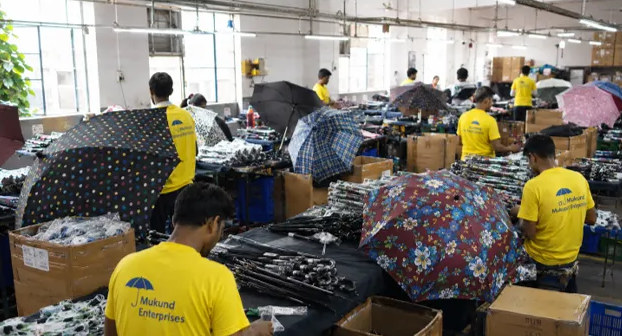
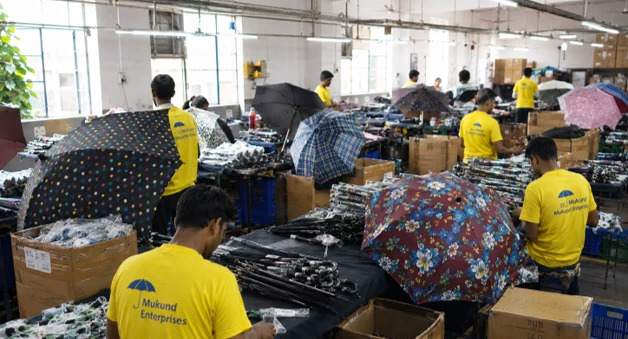
Show factory and product photos whole: no cropping, stretching or enlarging
Claude-Session: https://claude.ai/code/session_011EQ4jTa1nmGAWaByM4MBeN

diff --git a/about.html b/about.html
@@ -53,11 +53,11 @@
     <div class="section-head"><p class="eyebrow">Inside our factory</p><h2>Made by our <em>own</em> team</h2></div>
     <p class="lead">Every umbrella is cut, stitched, assembled and checked by the Mukund Enterprises team under one roof.</p>
     <div class="gallery">
-      <figure class="wide"><img src="assets/factory/production-floor-stitching.jpg" alt="Mukund Enterprises team assembling umbrellas on the production floor" loading="lazy"><figcaption>Assembly and stitching on the production floor</figcaption></figure>
-      <figure><img src="assets/factory/assembly-line-colourful-umbrellas.jpg" alt="Workers assembling and testing colourful umbrellas at long tables" loading="lazy"><figcaption>Assembling and testing each umbrella</figcaption></figure>
-      <figure><img src="assets/factory/shadow-umbrella-stock-room.jpg" alt="Boxes of finished Shadow Umbrella stock in the storage area" loading="lazy"><figcaption>Finished Shadow Umbrella stock, ready to dispatch</figcaption></figure>
-      <figure><img src="assets/factory/factory-aisle-team-at-work.jpg" alt="Long factory aisle with the team at work on umbrellas" loading="lazy"><figcaption>One floor, one team</figcaption></figure>
-      <figure><img src="assets/factory/finishing-and-packing.jpg" alt="Team finishing and packing printed umbrellas" loading="lazy"><figcaption>Finishing and packing</figcaption></figure>
+      <figure class="wide"><img src="assets/factory/production-floor-stitching.jpg" width="1282" height="611" alt="Mukund Enterprises team assembling umbrellas on the production floor" loading="lazy"><figcaption>Assembly and stitching on the production floor</figcaption></figure>
+      <figure><img src="assets/factory/assembly-line-colourful-umbrellas.jpg" width="628" height="340" alt="Workers assembling and testing colourful umbrellas at long tables" loading="lazy"><figcaption>Assembling and testing each umbrella</figcaption></figure>
+      <figure><img src="assets/factory/finishing-and-packing.jpg" width="628" height="339" alt="Team finishing and packing printed umbrellas" loading="lazy"><figcaption>Finishing and packing</figcaption></figure>
+      <figure><img src="assets/factory/shadow-umbrella-stock-room.jpg" width="625" height="430" alt="Boxes of finished Shadow Umbrella stock in the storage area" loading="lazy"><figcaption>Finished Shadow Umbrella stock, ready to dispatch</figcaption></figure>
+      <figure><img src="assets/factory/factory-aisle-team-at-work.jpg" width="625" height="428" alt="Long factory aisle with the team at work on umbrellas" loading="lazy"><figcaption>One floor, one team</figcaption></figure>
     </div>
   </div>
 </section>

diff --git a/style.css b/style.css
@@ -112,7 +112,7 @@ section.dark { border: 0; }
 .filters button.on, .filters button:hover { background: #000; color: #fff; }
 .product { border: 1px solid var(--line); background: #fff; display: flex; flex-direction: column; transition: .25s; }
 .product:hover { border-color: #000; box-shadow: 0 14px 34px rgba(0,0,0,.08); transform: translateY(-3px); }
-.product .img { aspect-ratio: 4 / 3; display: grid; place-items: center; background: #f3f3f3; border-bottom: 1px solid var(--line); }
+.product .img { aspect-ratio: 1 / 1; display: grid; place-items: center; background: #f3f3f3; border-bottom: 1px solid var(--line); }
 .product .img img { width: 44%; filter: brightness(.25) saturate(0); opacity: .75; }
 .product .body { padding: 22px; display: flex; flex-direction: column; gap: 6px; flex: 1; }
 .product .cat { font-size: .66rem; letter-spacing: .24em; text-transform: uppercase; color: var(--accent); font-weight: 500; }
@@ -174,11 +174,10 @@ footer .logo { display: inline-block; margin-bottom: 16px; }
 .product .img img.ph { width: 100%; height: 100%; object-fit: cover; filter: none; opacity: 1; }
 .product .img img.icon { width: 44%; height: auto; object-fit: contain; filter: brightness(.25) saturate(0); opacity: .75; }
 
-/* Factory photo gallery (About page) */
-.gallery { display: grid; grid-template-columns: repeat(2, 1fr); gap: 18px; margin-top: 34px; }
+/* Factory photo gallery (About page): photos are shown whole, never cropped, stretched or enlarged past their real size */
+.gallery { display: grid; grid-template-columns: repeat(2, 1fr); gap: 18px; margin-top: 34px; align-items: start; }
 .gallery figure { margin: 0; }
-.gallery img { width: 100%; height: auto; display: block; object-fit: cover; aspect-ratio: 3 / 2; background: #eee; }
+.gallery img { width: 100%; height: auto; display: block; background: #eee; }
 .gallery figure.wide { grid-column: 1 / -1; }
-.gallery figure.wide img { aspect-ratio: 21 / 9; }
 .gallery figcaption { font-size: .78rem; letter-spacing: .08em; color: #666; margin-top: 8px; }
-@media (max-width: 700px) { .gallery { grid-template-columns: 1fr; } .gallery figure.wide img { aspect-ratio: 3 / 2; } }
+@media (max-width: 700px) { .gallery { grid-template-columns: 1fr; } }
